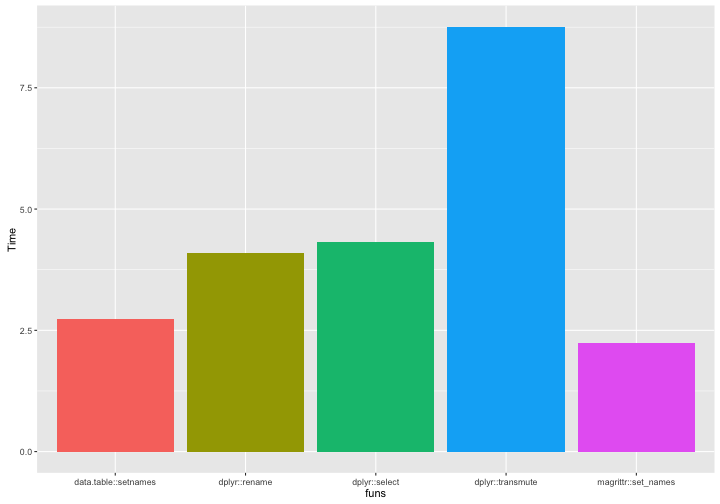
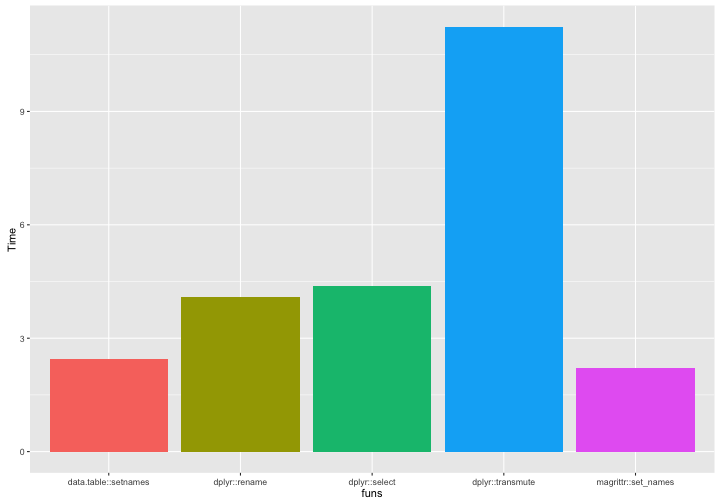
Fix Typo

diff --git a/_posts/2016-04-01-colnames.md b/_posts/2016-04-01-colnames.md
@@ -212,7 +212,7 @@ colnames_transmute <-
 
 ```
 ##    user  system elapsed 
-##   4.056   0.026   4.101
+##   4.047   0.024   4.091
 ```
 
 ```r
@@ -221,7 +221,7 @@ colnames_transmute <-
 
 ```
 ##    user  system elapsed 
-##   2.206   0.012   2.249
+##   2.171   0.009   2.199
 ```
 
 ```r
@@ -230,7 +230,7 @@ colnames_transmute <-
 
 ```
 ##    user  system elapsed 
-##   2.634   0.023   2.736
+##   2.434   0.008   2.452
 ```
 
 ```r
@@ -239,7 +239,7 @@ colnames_transmute <-
 
 ```
 ##    user  system elapsed 
-##   4.272   0.019   4.323
+##   4.324   0.017   4.375
 ```
 
 ```r
@@ -248,7 +248,7 @@ colnames_transmute <-
 
 ```
 ##    user  system elapsed 
-##   8.572   0.057   8.759
+##  10.245   0.092  11.241
 ```
 
 ```r
@@ -262,12 +262,13 @@ data_frame(funs = factor(c("dplyr::rename", "dplyr::select", "dplyr::transmute",
 
 ![plot of chunk SpeedCompare](/figure/source/2016-04-01-colnames/SpeedCompare-1.png) 
 
-set_names, setnamesが速い  
-airquality %>% data.table() %>% set_names(letters[1:6])
+
+transmuteがかなり遅く、set_names、setnamesが速い  
+
 とはいえ  
 1. カラム名変更を繰り返すシチュエーションが考えづらいこと  
 2. 列名が多いデータ (wide形式) をほとんど使わないこと  
-ので無視してもよさそう  
+から無視してもよさそう  
 
 それと、データハンドリングの過程でmutate, selectに頼らないパターンが稀なので、  
 その意味でもdplyr系をわざわざ外すメリットが少ない気がする。  
